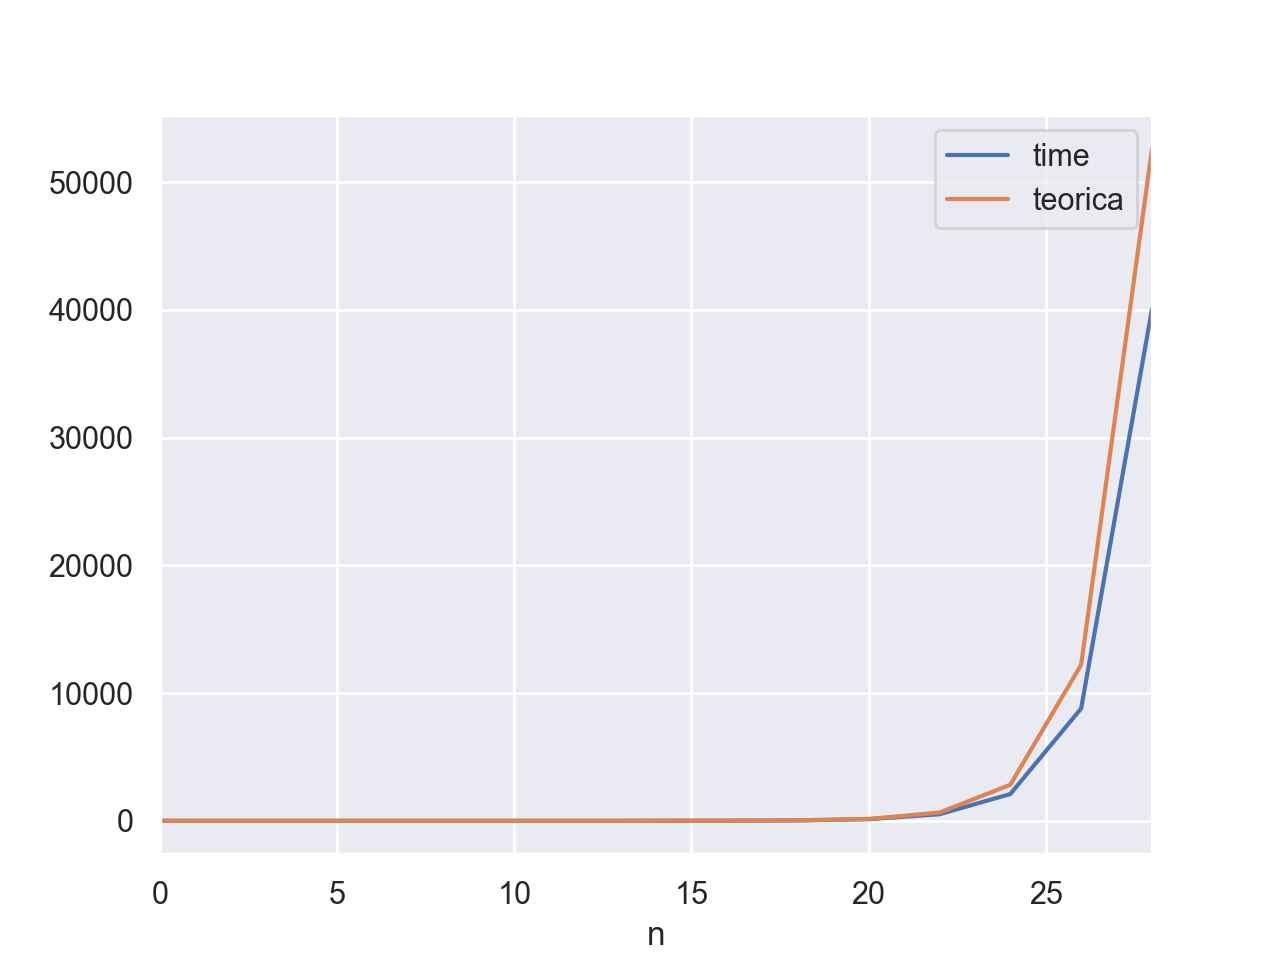
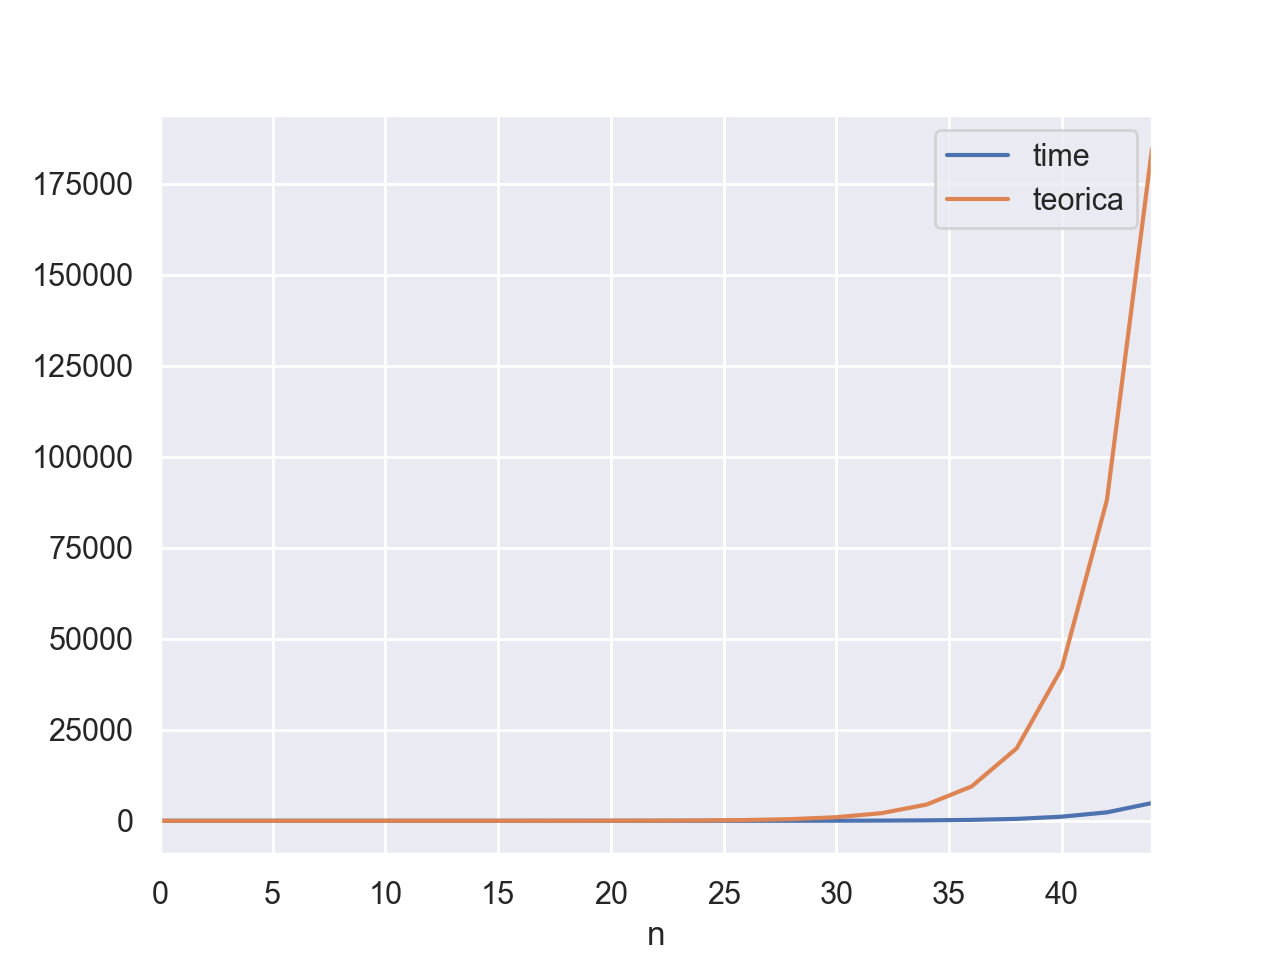
Revert "graficos"
This reverts commit f0de25fc84f92b530c8737663d9170126e92a4d1.

diff --git a/exp/fb/fb_exp_plotter.py b/exp/fb/fb_exp_plotter.py
@@ -9,7 +9,7 @@ df = pd.read_csv("times_fuerzaBruta_n30.csv")
 
 # Nano -> Milli
 df['time']  /= 1000000.0
-df['teorica'] = 0.000007*df['n'] * 2**(df['n'])
+df['teorica'] = 0.001*df['n'] * 2**(df['n'])
 
 df.plot('n', ['time', 'teorica'])
 
